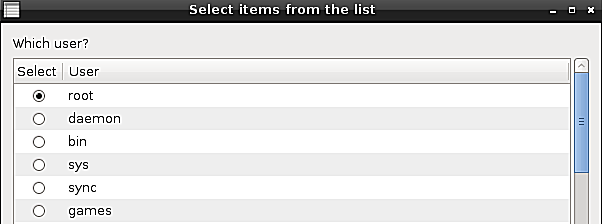
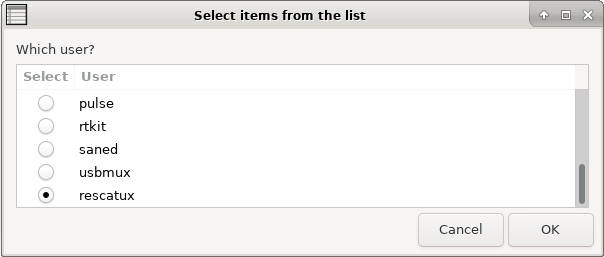
chpasswd: Updated and completed documentation to 2019 gui. (2)

Changed region(s): [[0.0, 0.0, 1.0, 1.0]]

diff --git a/plugins/chpasswd/local_doc.html b/plugins/chpasswd/local_doc.html
@@ -9,16 +9,18 @@ Choose your language.
 </TABLE></center>
 
 <a name="english">Change Gnu/Linux password - Rescapp - Documentation</a>
-
+<p>
+If you have forgotten your Gnu/Linux distribution user password you can use this option to reset it to another password. Please use a temporary password and change it later again from inside your distribution session.
+</p>
 <ul>
   <li>
-  <b>Step 1</b><p></p>Rescapp searches for partitions that have on them the following file: <i>/etc/issue</i> based on information found in the <i>/proc/partitions</i> file.
+  <b>Step 1</b><p></p>Rescapp searches for GNU/Linux partitions.
   </li>
   <li>
   <b>Step 2</b><p></p>If such partitions have been found, Rescapp displays partitions that have on them the following file: <i>/etc/issue</i>. At the same time you are prompted:<p></p>
   <i>Which GNU/Linux partition?</i><p></p> You are supposed to choose your main GNU/Linux distribution (you will probably only see one) and press the OK button.
   </li>
-<p></p><IMG SRC="images/chpasswd_001_partition.png"><p></p>
+<p></p><IMG SRC="../grub-install/images/grub-install_001_partition.png"><p></p>
   <li>
   <b>Step 3</b><p></p>You are prompted:<p></p><i>Which user?</i><p></p> Select the desired user from the list.
   </li>
@@ -50,9 +52,6 @@ Choose your language.
   </b>
   </p>
   </div>
-  </li>
-  <li>
-  <b>Step 7</b><p></p>A log file called <i>chpasswd.log.txt</i> is generated so that you can share it later if needed.
   </li>
 </ul>
 
